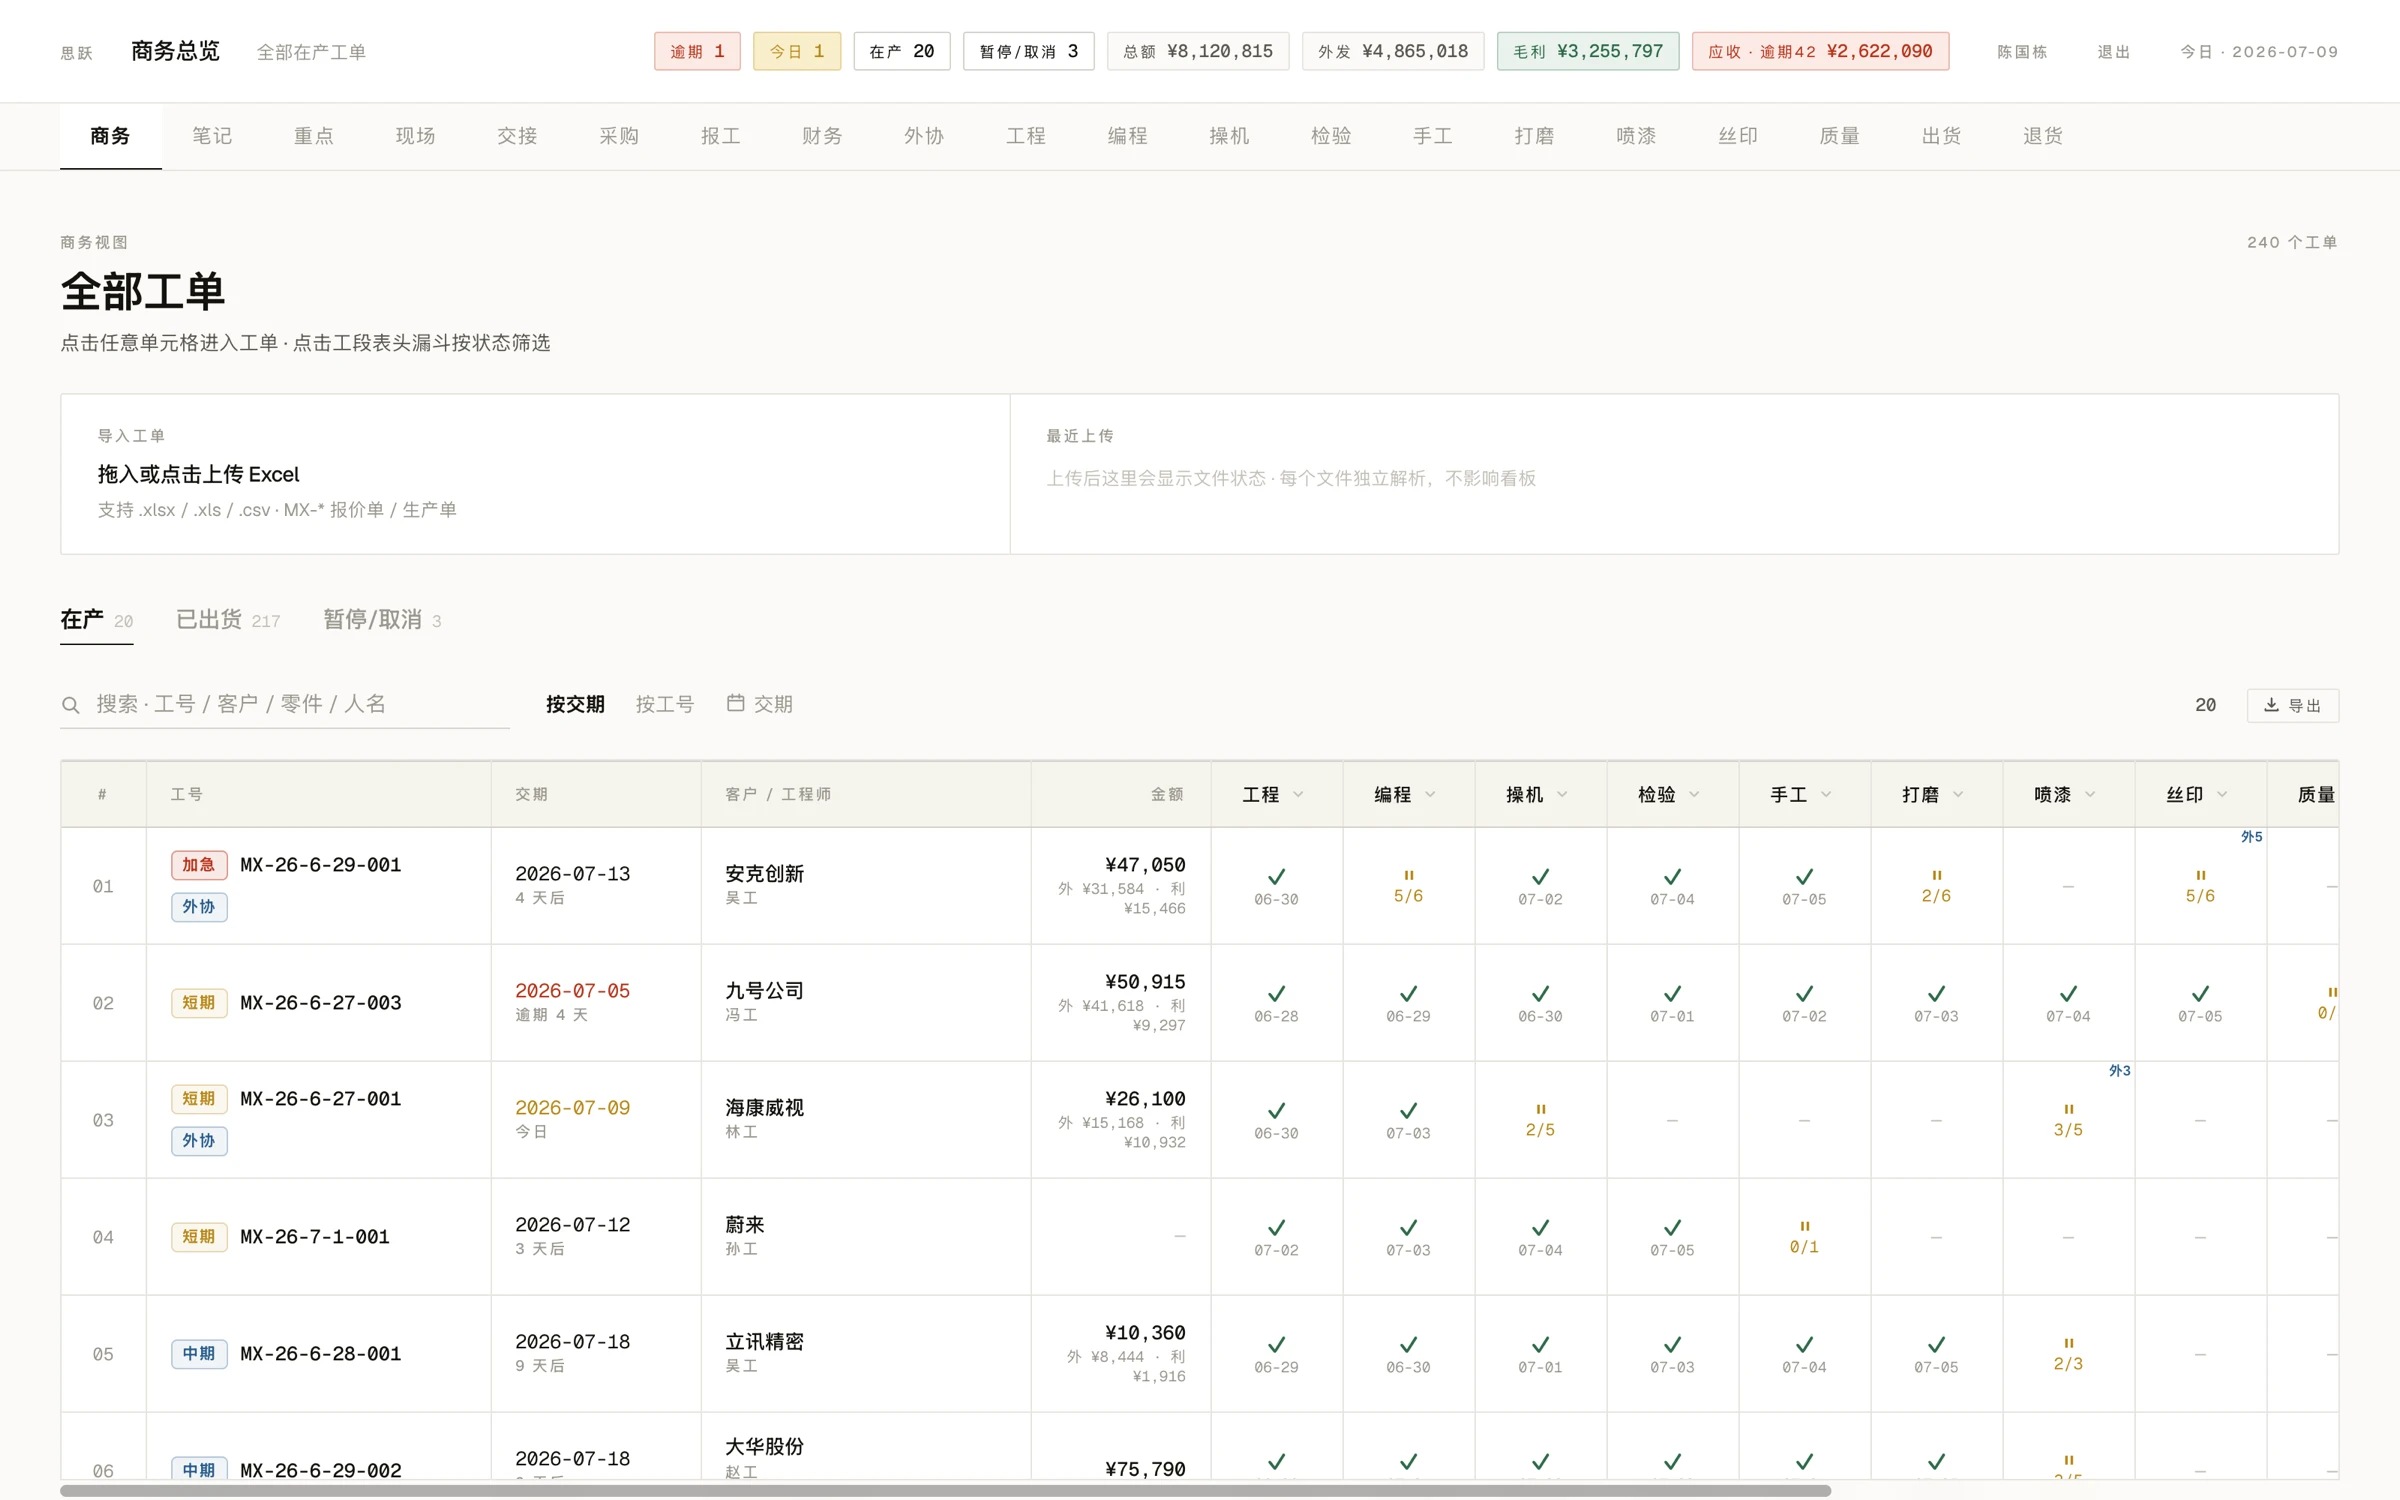
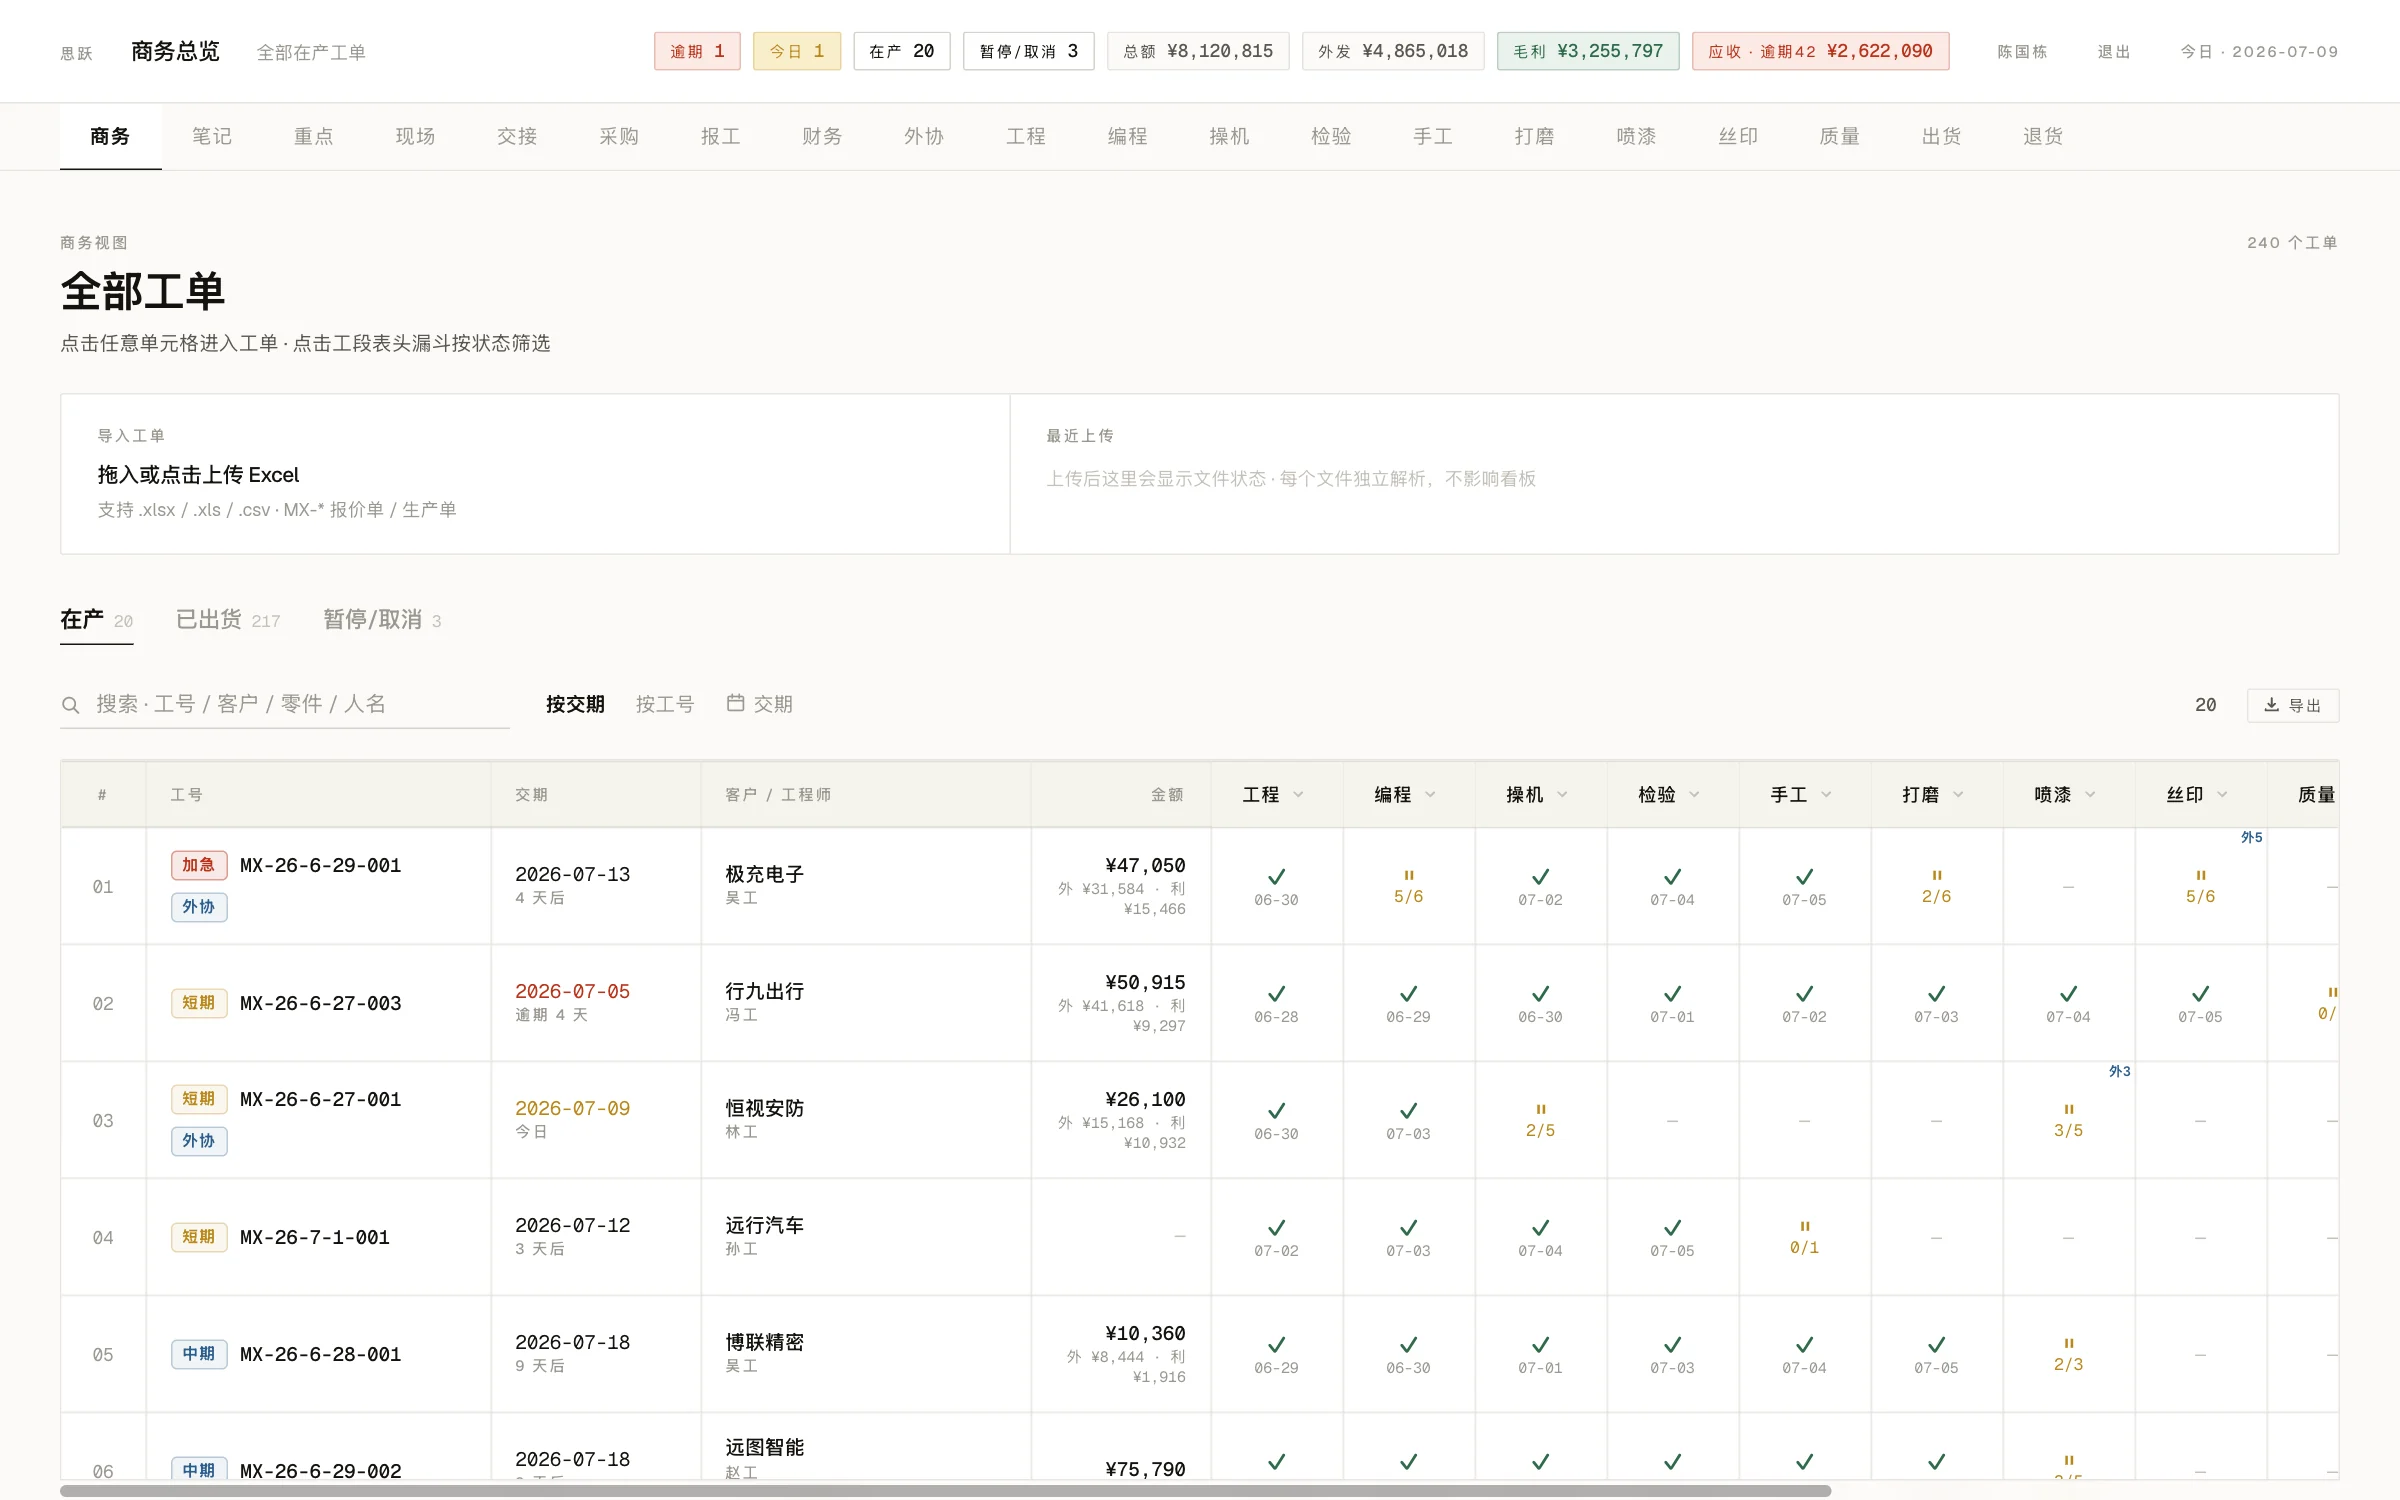
siyue.ai: drop customer-name strip, reshoot demo screenshots with fictional customers
Landing page focuses on the product, not who the factories' customers are.
Demo seed now uses fictional customer names only.

diff --git a/scripts/seed-demo.ts b/scripts/seed-demo.ts
@@ -2,7 +2,8 @@
  * Demo seed generator — a "busy mid-size precision shop" (智造精密).
  *
  * Produces a de-identified-but-believable order book for sales demos:
- *   - real customer names (Hikvision/DJI/etc.) are fine to show
+ *   - fictional customer names only — never real brands (the demo sells the
+ *     product, not who our factories' customers are)
  *   - real-sounding but generic part names (no model numbers that pin to a
  *     specific real job)
  *   - hard, realistic ¥ amounts rolled up from per-part unit prices
@@ -14,7 +15,7 @@
  *     believable China-workday timestamps, dense over the last 7 days
  *   - a full historical lifecycle: shipped / invoiced / paid, plus outsourcing,
  *     a few paused jobs, products, a few 图纸变更 marks, and one showcase
- *     Hikvision order pinned to the top.
+ *     恒视安防 order pinned to the top.
  *
  * It seeds THROUGH the app's own mutation functions (createJob, finishJobStage,
  * prepareShipping, updateShipmentFinance, createOutsourceBlockAt, ...) so every
@@ -245,7 +246,7 @@ function recentDayAgo(span: number): number {
   return n
 }
 
-// ── 4. Business vocabulary (real customers OK; parts generic-but-real) ────────
+// ── 4. Business vocabulary (fictional customers; parts generic-but-real) ────────
 const CODE = process.env.NEXT_PUBLIC_BRAND_CODE || 'MX'
 
 type Cat =
@@ -259,30 +260,30 @@ type Cat =
 
 // [customer, category, weight]  — heavier weight = appears more often
 const CUSTOMERS: readonly (readonly [string, Cat, number])[] = [
-  ['海康威视', 'security', 10],
-  ['大华股份', 'security', 7],
-  ['宇视科技', 'security', 3],
-  ['大疆创新', 'consumer', 8],
-  ['影石创新', 'consumer', 5],
-  ['科沃斯', 'consumer', 4],
-  ['石头科技', 'consumer', 3],
-  ['追觅科技', 'consumer', 3],
-  ['安克创新', 'consumer', 3],
-  ['九号公司', 'consumer', 2],
-  ['思看科技', 'scan', 6],
-  ['先临三维', 'scan', 3],
-  ['迈瑞医疗', 'medical', 5],
-  ['联影医疗', 'medical', 3],
-  ['比亚迪', 'auto', 5],
-  ['宁德时代', 'auto', 4],
-  ['蔚来', 'auto', 3],
-  ['理想汽车', 'auto', 3],
-  ['宇树科技', 'robotics', 4],
-  ['云深处科技', 'robotics', 3],
-  ['普渡机器人', 'robotics', 2],
-  ['立讯精密', 'industrial', 3],
-  ['歌尔股份', 'industrial', 3],
-  ['大族激光', 'industrial', 2],
+  ['恒视安防', 'security', 10],
+  ['远图智能', 'security', 7],
+  ['安途视讯', 'security', 3],
+  ['云翼科技', 'consumer', 8],
+  ['全景影像', 'consumer', 5],
+  ['洁宝机器人', 'consumer', 4],
+  ['磐川智能', 'consumer', 3],
+  ['迅风电器', 'consumer', 3],
+  ['极充电子', 'consumer', 3],
+  ['行九出行', 'consumer', 2],
+  ['精测三维', 'scan', 6],
+  ['光扫科技', 'scan', 3],
+  ['康诺医疗', 'medical', 5],
+  ['明影医疗', 'medical', 3],
+  ['驰能汽车', 'auto', 5],
+  ['锐能电池', 'auto', 4],
+  ['远行汽车', 'auto', 3],
+  ['新途汽车', 'auto', 3],
+  ['灵足机器人', 'robotics', 4],
+  ['深行机器人', 'robotics', 3],
+  ['速达机器人', 'robotics', 2],
+  ['博联精密', 'industrial', 3],
+  ['声科电子', 'industrial', 3],
+  ['光锐激光', 'industrial', 2],
 ]
 
 const PARTS: Record<Cat, readonly string[]> = {
@@ -725,7 +726,7 @@ function genOrders(count: number, inProd: number, paused: number): OrderSpec[] {
   while (spread.length < inProd - 1) spread.push(STAGES.indexOf('操机'))
   const spreadShuffled = shuffle(spread)
 
-  // Showcase Hikvision order — clean, mid-production (操机), pinned, tidy numbers.
+  // Showcase 恒视安防 order — clean, mid-production (操机), pinned, tidy numbers.
   {
     const intakeDaysAgo = 9
     const intake = addDays(NOW, -intakeDaysAgo)
@@ -737,7 +738,7 @@ function genOrders(count: number, inProd: number, paused: number): OrderSpec[] {
       { name: '红外灯板支架', qty: 20, material: '6061铝合金', surfaceTreatment: '本色', process: 'CNC机加', unitPriceCny: 120, lineTotalCny: 2400 },
     ]
     const amount = comps.reduce((s, c) => s + c.lineTotalCny, 0) // 26,100
-    const base = baseFields(intake, '海康威视', 'security', comps, amount, {
+    const base = baseFields(intake, '恒视安防', 'security', comps, amount, {
       product: '球机结构件手板一套',
       engineer: '林工',
       contractNo: 'HT26-0418',

diff --git a/landing/index.html b/landing/index.html
@@ -148,13 +148,6 @@
   .hero-shot { margin-top: 64px; }
   .hero-shot .frame-shot { aspect-ratio: 1600 / 940; }
 
-  /* ---- proof strip ---- */
-  .proof { border-top: 1px solid var(--border); border-bottom: 1px solid var(--border); margin-top: 88px; }
-  .proof-in { padding: 26px 0; display: flex; flex-direction: column; gap: 10px; }
-  .proof-label { font-family: var(--mono); font-size: 11px; letter-spacing: 0.14em; color: var(--ink-3); }
-  .proof-names { font-size: 15px; color: var(--ink-2); line-height: 2; letter-spacing: 0.02em; }
-  .proof-names span { white-space: nowrap; }
-  .proof-names i { font-style: normal; color: var(--ink-4); padding: 0 10px; }
 
   /* ---- feature sections ---- */
   .feat { padding: 110px 0 0; }
@@ -260,14 +253,6 @@
     </div>
   </div>
 
-  <div class="proof rv">
-    <div class="wrap proof-in">
-      <span class="proof-label">试点工厂全线运行中 · 演示看板上的在产客户</span>
-      <p class="proof-names">
-        <span>海康威视</span><i>·</i><span>大疆创新</span><i>·</i><span>比亚迪</span><i>·</i><span>蔚来</span><i>·</i><span>立讯精密</span><i>·</i><span>迈瑞医疗</span><i>·</i><span>科沃斯</span><i>·</i><span>宇树科技</span><i>·</i><span>理想汽车</span><i>·</i><span>先临三维</span>
-      </p>
-    </div>
-  </div>
 </header>
 
 <main>

diff --git a/landing/intro.html b/landing/intro.html
@@ -52,10 +52,6 @@
     display: flex; justify-content: space-between; font-family: var(--mono);
     font-size: 9.5px; color: var(--ink-3); letter-spacing: 0.05em;
   }
-  .proof { margin-top: 8mm; border-top: 1px solid var(--border); border-bottom: 1px solid var(--border); padding: 5mm 0; }
-  .proof-label { font-family: var(--mono); font-size: 9.5px; letter-spacing: 0.14em; color: var(--ink-3); margin-bottom: 2mm; }
-  .proof-names { font-size: 13px; color: var(--ink-2); line-height: 2; }
-  .proof-names i { font-style: normal; color: #c4c1b8; padding: 0 7px; }
   .bigcta { margin-top: 8mm; }
   .bigcta .row { display: flex; gap: 6mm; margin-top: 5mm; }
   .card {
@@ -81,10 +77,6 @@
   <div class="shot">
     <div class="cap">商务总览 · 全部在产工单，每个工段的完成状态</div>
     <img src="assets/demo-board-grid.webp" alt="">
-  </div>
-  <div class="proof">
-    <div class="proof-label">试点工厂全线运行中 · 在产客户包括</div>
-    <p class="proof-names">海康威视<i>·</i>大疆创新<i>·</i>比亚迪<i>·</i>蔚来<i>·</i>立讯精密<i>·</i>迈瑞医疗<i>·</i>科沃斯<i>·</i>宇树科技<i>·</i>理想汽车<i>·</i>先临三维</p>
   </div>
   <div class="foot"><span>思跃 siyue.ai · © 2026</span><span>在线演示：yuenong.siyue.ai/demo（免注册）</span></div>
 </div>

diff --git a/DEMO.md b/DEMO.md
@@ -1,6 +1,6 @@
 # Demo build — 脱敏 (de-identified) sales demo
 
-A safe-to-show build of the MES: **real customer names, realistic part names and
+A safe-to-show build of the MES: **fictional customer names, realistic part names and
 hard ¥ amounts, ~12 months of a busy mid-size shop's order book** — but the
 factory's own identity (越侬模型 / 杭州越侬… / YNMX / phone / address / staff
 names) never appears. It runs against an **isolated demo database**, never
@@ -15,14 +15,14 @@ production.
   Flips the page title, footer, printed-doc headers, the doc-number prefix, and
   the "我方商务" field label.
 - **`scripts/seed-demo.ts`** — generates ~240 orders for a fictional shop:
-  - real customers (Hikvision 海康威视, DJI 大疆, Dahua 大华, Mindray 迈瑞,
-    Scantech 思看, BYD, NIO, Unitree …), Hikvision-weighted
+  - fictional customers only (恒视安防, 云翼科技, 精测三维, 康诺医疗 …) —
+    never real brands
   - generic-but-real part names (球机外壳, 中框, 关节外壳, 散热支架 …), real
     materials/surface treatments — no model numbers that pin to a real job
   - hard amounts rolled up from per-part unit prices (median ≈ ¥22k, up to
     ~¥300k), ~¥8M/yr total
   - full lifecycle mix: 新单 / 在产 / 已出货 / 已开票待回款 / 逾期 / 已结清,
-    plus 外协, a few 暂停, products, and **one pinned showcase Hikvision order**
+    plus 外协, a few 暂停, products, and **one pinned showcase 恒视安防 order**
   - ~12 months of history (job numbers + timestamps backdated), weighted recent
 
 ## Decisions baked in
